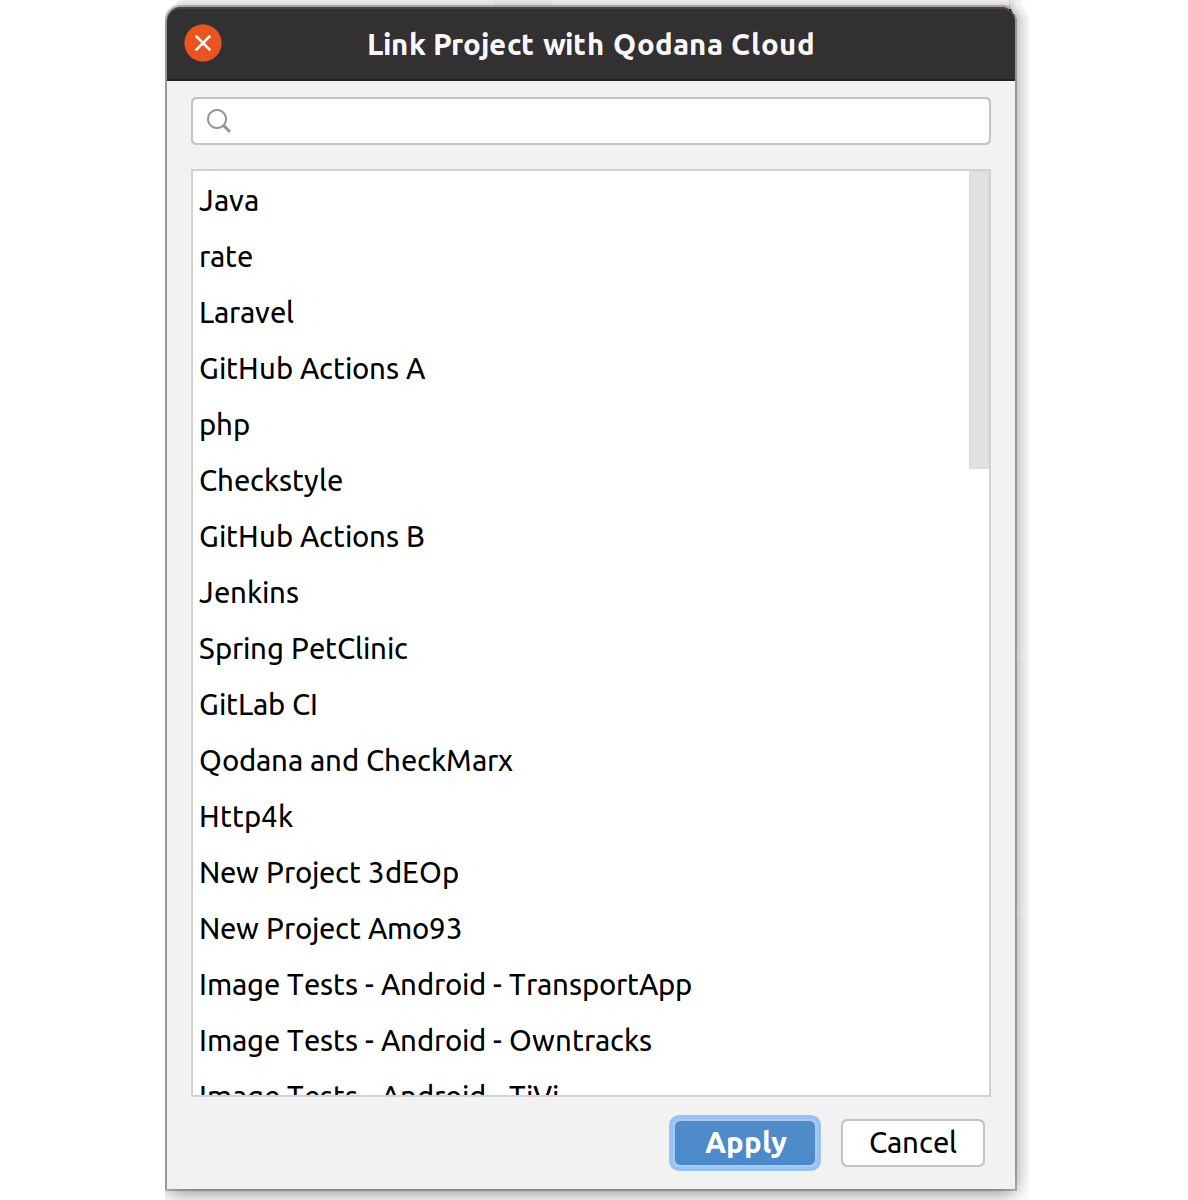
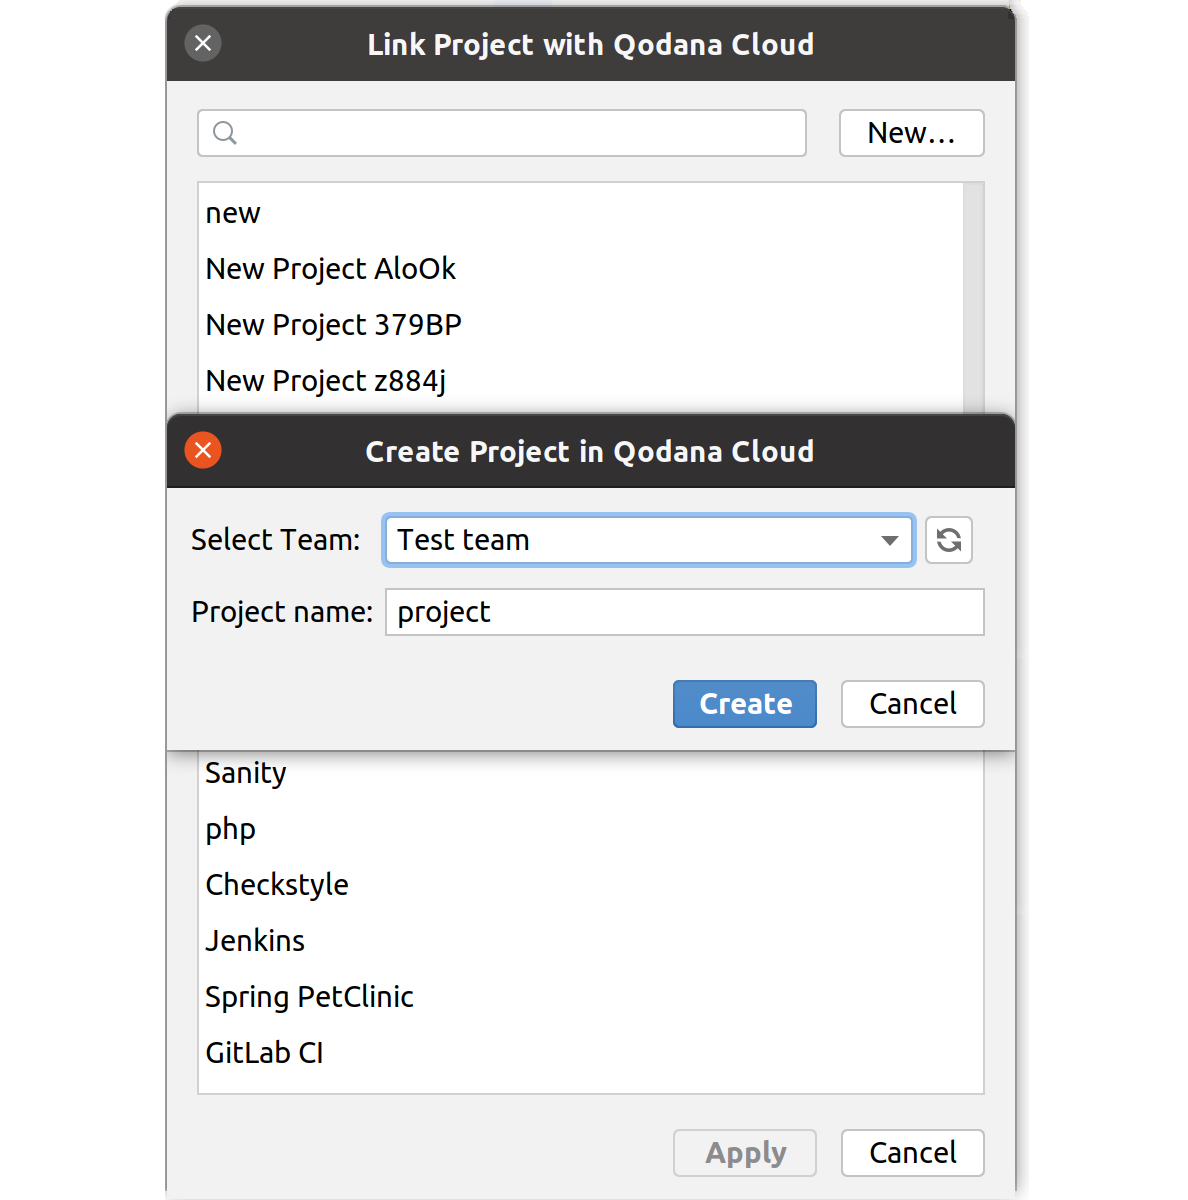
QD-5577 Finished the linking section

Changed region(s): [[0.1246, 0.0, 0.8721, 1.0]]

diff --git a/topics/qodana-ide-plugin.md b/topics/qodana-ide-plugin.md
@@ -95,17 +95,15 @@ In the upper-left corner of the **Qodana** window, you can find two buttons.
 
 <img src="ide-plugin-left-window-buttons.png" dark-src="ide-plugin-left-window-buttons_dark.png" width="706" alt="Buttons in the upper-left corner of the Qodana window" border-effect="line"/>
 
-<!-- These paragraphs need to be updated with actual information -->
-
 <anchor name="tab-overview-buttons"/>
 
 The **Log in to Qodana** button lets you log in to Qodana Cloud. This action is a prerequisite for linking your project
 with Qodana Cloud-based projects. Alternatively, you can do it using the
-<menupath>Tools | Qodana | Log in to Qodana</menupath> menu of your IDE as [described here](#Log+in+to+Qodana+Cloud).
+**Tools | Qodana | Log in to Qodana** menu of your IDE as [described here](#qodana-cloud-login).
 
 Using the **Link project with Cloud** button, you can link your project with a specific report uploaded to Qodana Cloud.
 After linking, you can study the report using your IDE.
-Alternatively, you can link your project using the <menupath>Tools | Qodana | Link Project with Cloud</menupath> menu
+Alternatively, you can link your project using the **Tools | Qodana | Link Project with Cloud** menu
 of your IDE as [described here](#Link+project+with+Qodana+Cloud).
 
 <!-- This can be renamed for open a local report -->
@@ -123,9 +121,10 @@ In a Qodana HTML report, choose a problem and click **Open file in \<IDE\>**.
 Using the plugin functionality, you can:
 
 * [Log in to Qodana Cloud](#Log+in+to+Qodana+Cloud)
-* [Link your project with Qodana Cloud](#Link+project+with+Qodana+Cloud)
+* [Link your project with Qodana Cloud](#Link+your+project+with+Qodana+Cloud)
 * [Update the linked reports](#Update+report)
 
+{id="qodana-cloud-login"}
 ### Log in to Qodana Cloud
 
 Logging in to Qodana Cloud is required before linking your project with the Qodana Cloud-based projects.
@@ -149,15 +148,15 @@ to the authentication page.
 <step>On the authentication page, complete the <a href="cloud-get-access.xml">authentication step</a>.</step>
 </procedure>
 
-### Link project with Qodana Cloud
+### Link your project with Qodana Cloud
 
-You can synchronize your local project with reports uploaded to Qodana Cloud and related to a specific 
-<a href="cloud-projects.xml">project</a>. This lets you overview the detected problems using the 
-<menupath>Problems</menupath> tool window of your IDE. To link a project, you first need to 
-[log in to Qodana Cloud](#Log+in+to+Qodana+Cloud).
+To synchronize your project with Qodana Cloud, you can link it with your <a href="cloud-projects.xml">project</a> based 
+in Qodana Cloud. 
 
-<tip>For successful linking, you should have your local project already inspected by Qodana at least once with the report 
-uploaded to Qodana Cloud.</tip>
+<note>Before linking, you may need to <a anchor="qodana-cloud-login"">log in to Qodana Cloud</a>.</note>
+
+<tip>To successfully link your project, it should already be inspected by Qodana at least once with the report 
+uploaded to Qodana Cloud, so linking occurs on the basis of the previous report uploading.</tip>
 
 <procedure>
 <step>In your IDE, navigate to <menupath>Tools | Qodana </menupath>, and then click 
@@ -170,7 +169,8 @@ Alternatively, you can click the **Link project with Cloud** button of the **[Qo
 </step>
 <step>
 On the <menupath>Link Project with Qodana Cloud</menupath> window, select the Qodana Cloud project you would like to
-link your local project with, and then click <menupath>Apply</menupath>.
+link your local project with, and then click <menupath>Apply</menupath> If necessary, you can create a new project
+that your local project will be linked to.
 
 <img src="ide-plugin-linking-2.png" dark-src="ide-plugin-linking-2_dark.png" width="594" alt="The link project with Qodana Cloud window" border-effect="line"/>
 
@@ -178,8 +178,8 @@ link your local project with, and then click <menupath>Apply</menupath>.
 
 </procedure>
 
-After linking, you can overview the report using the <menupath>Qodana</menupath> tab of the <menupath>Problems</menupath>
-window.
+After linking, you can overview the downloaded report using the <menupath>Qodana</menupath> tab of the <menupath>Problems</menupath>
+window as shown in the [](#Overview+results+in+the+IDE) section.
 
 ### Update report
 
